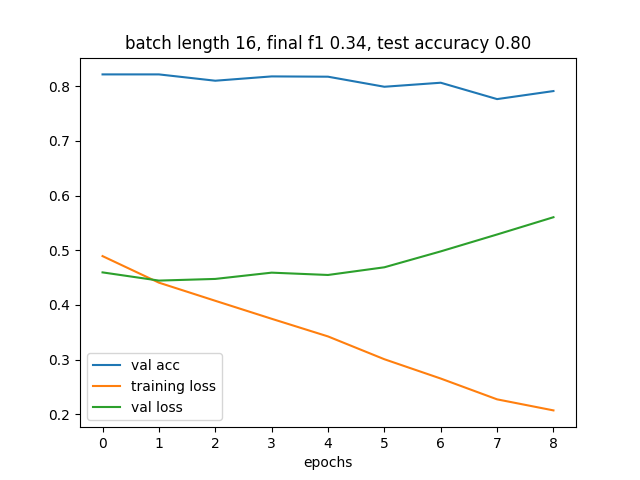
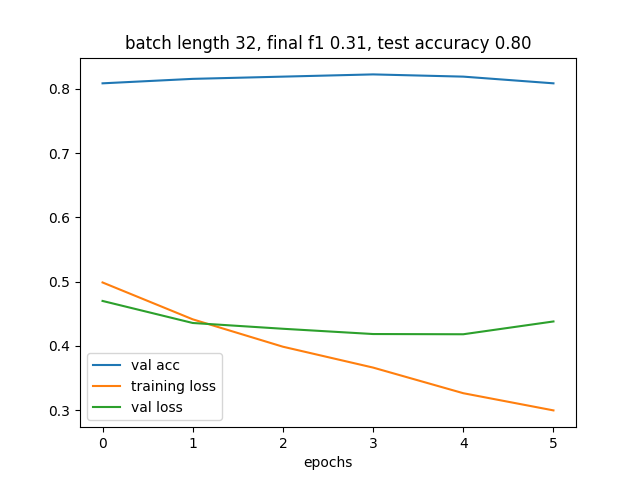
TODO; look at skewed data training using sampling

diff --git a/NorBert_utls/roberta_solar_sentiment.py b/NorBert_utls/roberta_solar_sentiment.py
@@ -18,7 +18,7 @@ from torch.utils.data import TensorDataset, random_split, DataLoader, RandomSamp
 from transformers import RobertaConfig, RobertaForSequenceClassification, AdamW, get_cosine_schedule_with_warmup
 from sklearn.metrics import f1_score
 # Function to calculate the accuracy of our predictions vs labels
-def _removeNonAscii(s): return "".join(i for i in s if ord(i)<128)
+def _removeNonAscii(s): return "".join(i for i in s if ord(i)<128)# ord() returns integer unicode. ascii is 7 bytes, 128 long
 def stemmingWords(sentence,dictionary):
     return " ".join([dictionary.get(w,w) for w in sentence.split()])
 def flat_accuracy(preds, labels):
@@ -31,6 +31,25 @@ def format_time(elapsed):
     '''
     elapsed_rounded = int(round((elapsed)))
     return str(datetime.timedelta(seconds=elapsed_rounded))
+def preprocess(sentences):
+    '''
+    remove usernames, urls and ": " from retweets
+    '''
+    for i in range(0,len(sentences)):
+      sentences[i] = re.sub('@[^\s]+',' ',sentences[i]) #all sernames 
+      sentences[i] = re.sub('&[^\s]+',' ',sentences[i]) #&[*all non whitespace*] ? 
+      sentences[i] = re.sub('https?://\S+',' ',sentences[i]) #urls
+      #sentences[i] = _removeNonAscii(sentences[i]) #also removes norwegian 
+      #for j in rm_list:
+      #  sentences[i] = sentences[i].replace(j,' ')
+      sentences[i] = ' '.join(sentences[i].split()) #insert space
+      if sentences[i][0] == ':':
+        if sentences[i][1] == ' ':
+            sentences[i] = sentences[i][2:] # is sentence starts with ': ', remove it (retweets?)
+        else:
+          sentences[i] = sentences[i][1:]
+    return sentences
+
 if torch.cuda.is_available():
     # Tell PyTorch to use the GPU.
     device = torch.device("cuda")
@@ -41,8 +60,10 @@ else:
     device = torch.device("cpu")
 
 
+
+
 def roberta_sentiment(lr = 1e-5, batch_size = 16, epochs = 10, plot = False, predict = False):
-    infile = 'annotaion_3000_01label_comb_posneutral_0neg_1pos'
+    infile = 'annotaion_3000_01label_comb_negneutral_0neg_1pos'
     df = pd.read_csv('~/wind_power_analysis/data/'+infile+'.csv', 
                      sep=',', usecols=['text', 'label'], index_col=None)
 
@@ -55,21 +76,9 @@ def roberta_sentiment(lr = 1e-5, batch_size = 16, epochs = 10, plot = False, pre
     rm_list = ''
     sentences = train.text.values
     labels = train.label.values
-    """
-    for i in range(0,len(sentences)):
-      sentences[i] = re.sub('@[^\s]+',' ',sentences[i])
-      sentences[i] = re.sub('&[^\s]+',' ',sentences[i])
-      sentences[i] = re.sub('https?://\S+',' ',sentences[i])
-      sentences[i] = _removeNonAscii(sentences[i])
-      for j in rm_list:
-        sentences[i] = sentences[i].replace(j,' ')
-      sentences[i] = ' '.join(sentences[i].split())
-      if sentences[i][0] == ':':
-        if sentences[i][1] == ' ':
-          sentences[i] = sentences[i][2:]
-        else:
-          sentences[i] = sentences[i][1:]
-    """
+    
+
+    sentences = preprocess(sentences) 
 
     max_length = 300
 
@@ -337,22 +346,7 @@ def roberta_sentiment(lr = 1e-5, batch_size = 16, epochs = 10, plot = False, pre
     sentences = df.text.values
     labels = df.label.values
 
-    """
-    for i in range(0,len(sentences)):
-      sentences[i] = re.sub('@[^\s]+',' ',sentences[i])
-      sentences[i] = re.sub('&[^\s]+',' ',sentences[i])
-      sentences[i] = re.sub('https?://\S+',' ',sentences[i])
-      sentences[i] = _removeNonAscii(sentences[i])
-      for j in rm_list:
-        sentences[i] = sentences[i].replace(j,' ')
-      sentences[i] = ' '.join(sentences[i].split())
-      if sentences[i][0] == ':':
-        if sentences[i][1] == ' ':
-          sentences[i] = sentences[i][2:]
-        else:
-          sentences[i] = sentences[i][1:]
-    """
-
+    sentences = preprocess(sentences)
     labels = labels.astype(int)
 
     # Tokenize all of the sentences and map the tokens to thier word IDs.
@@ -474,22 +468,7 @@ def roberta_sentiment(lr = 1e-5, batch_size = 16, epochs = 10, plot = False, pre
             print(df.head())
             # Create sentence and label lists
             sentences = df.text.values
-            
-            '''
-            for i in range(0,len(sentences)):
-              sentences[i] = re.sub('@[^\s]+',' ',sentences[i])
-              sentences[i] = re.sub('&[^\s]+',' ',sentences[i])
-              sentences[i] = re.sub('https?://\S+',' ',sentences[i])
-              sentences[i] = _removeNonAscii(sentences[i])
-              for j in rm_list:
-                sentences[i] = sentences[i].replace(j,' ')
-              sentences[i] = ' '.join(sentences[i].split())
-              if sentences[i][0] == ':':
-                if sentences[i][1] == ' ':
-                  sentences[i] = sentences[i][2:]
-                else:
-                  sentences[i] = sentences[i][1:]
-            '''
+            sentences = preprocess(sentences) 
               # Tokenize all of the sentences and map the tokens to thier word IDs.
             input_ids = []
             attention_masks = []
@@ -575,14 +554,13 @@ def roberta_sentiment(lr = 1e-5, batch_size = 16, epochs = 10, plot = False, pre
             #true_labels = list(chain.from_iterable(true_labels))
             df1 = pd.DataFrame(list(zip(sentences, predictions, logits0, logits1)), 
                                columns=['text', 'label', 'logits0', 'logits1'])
-            out_filename = 'second_rendition_geolocated_noemoji_anonymous_predict.csv'
+            out_filename = 'second_rendition_geolocated_noemoji_anonymous_negneutral_predict.csv'
             
             df['label'] = df1.label.copy() 
             df['logits0'] = df1.logits0.copy() 
             df['logits1'] = df1.logits1.copy() 
             
-            df.to_csv('test_full_dataset.csv')
-            df1.to_csv(predict_dataset+out_filename)
+            df.to_csv(predict_dataset+out_filename)
             print('    DONE.')
         
     return epochs, validation_accuracy, training_loss, validation_loss
@@ -621,5 +599,5 @@ def gridsearch():
 if __name__ == '__main__':
         
 
-    roberta_sentiment(lr = 1e-5, batch_size = 16, epochs = 4, plot=True, predict = True)
+    roberta_sentiment(lr = 1e-5, batch_size = 32, epochs = 6, plot=True, predict = False)
 

diff --git a/plot_utils.py b/plot_utils.py
@@ -14,17 +14,31 @@ import math
 
 def plot_uncertainty_hist(data: pd.DataFrame) -> None:
 
-    bool_label = data['labels'].values()
-    logits = data['logits0', 'logits1'] 
-    print(bool_label)
-    print(logits) 
+    bool_label = data['label'].values
+    print(len(bool_label[bool_label == 1]))
+    print(len(bool_label[bool_label == 0]))
 
-    binwidth = 0.2
-    plt.hist(max_label, bins=np.arange(min(max_label), max(max_label) + binwidth, binwidth))
+    logits = data[['logits0', 'logits1']]
 
+    #max_logits = logits.max(axis=1) 
+    #min_logits = logits.min(axis=1) 
+
+    binwidth = 0.005
+    #plt.hist(max_logits, bins=np.arange(min(max_logits), max(max_logits) + binwidth, binwidth), 
+    #         alpha = 0.5, label = 'highest values')
+    #plt.hist(min_logits, bins=np.arange(min(max_logits), max(max_logits) + binwidth, binwidth), 
+    #         alpha = 0.5, label = 'lowest values')
+    logits0 = data['logits0'] 
+    logits1 = data['logits1'] 
+    plt.hist(logits0, bins=np.arange(min(logits0), max(logits0) + binwidth, binwidth), 
+             alpha = 0.5, label = 'negative logits')
+    plt.hist(logits1, bins=np.arange(min(logits1), max(logits1) + binwidth, binwidth), 
+             alpha = 0.5, label = 'positive logits')
+    
     plt.legend()
-    plt.title('Distribution of non boolean values returned by NorBert')
-    plt.savefig('fig/uncertainty_hist.png')
+    plt.title('Distribution of positive and negative logits')
+    plt.show()
+    #plt.savefig('fig/uncertainty_hist.png')
 
 
 
@@ -93,11 +107,11 @@ if __name__ == '__main__':
     data = pd.read_csv(path,
                       usecols = ['username','text','loc','created_at',
                                  'like_count','quote_count','latitude',
-                                 'longitude', 'labels', 'logits0', 'logits1']
+                                 'longitude', 'label', 'logits0', 'logits1']
                       )
 
     print(data.head())
     #plot_uncertainty_diff()
-    plot_uncertainty_hist()
+    plot_uncertainty_hist(data)
     #norway_plot()
     #pass
